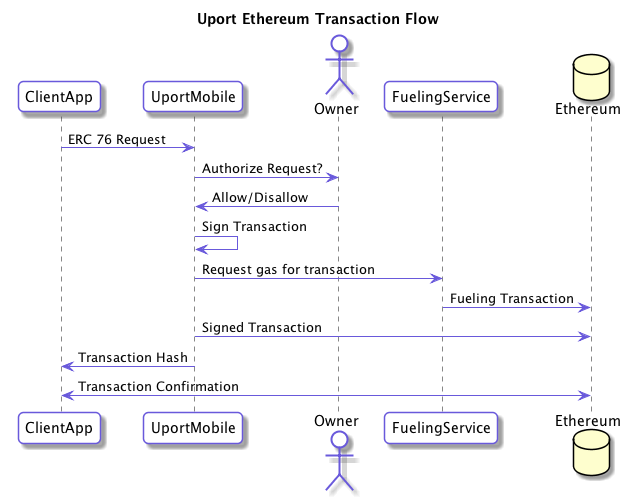
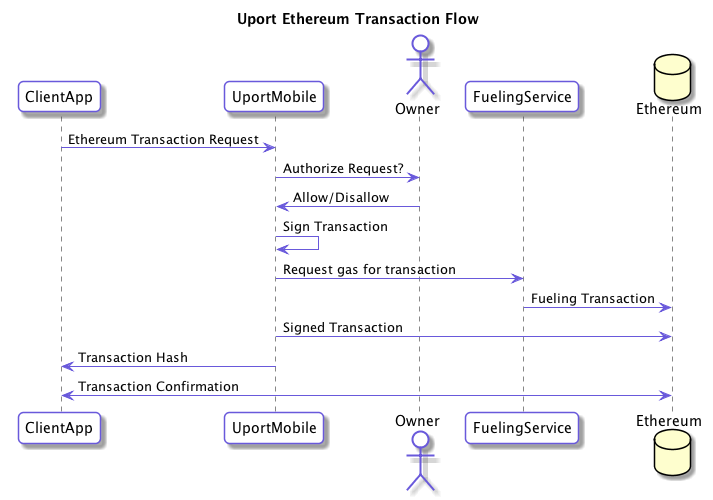
Signed Ethereum Transaction Request

diff --git a/messages/tx.md b/messages/tx.md
@@ -1,0 +1,107 @@
+# Ethereum Transaction Request
+
+This message allows an application to request that a client signs an ethereum transaction.
+
+The Ethereum Transaction Request is created by a client app and sent to a user's mobile app as part of the [Ethereeum Transaction Request Flow](../flows/tx.md).
+
+Requests can be either signed or unsigned.
+
+Unsigned Ethereum Transaction Requests are a superset of [ERC 67](https://github.com/ethereum/EIPs/issues/67) and are deprecated.
+
+## Signed Transaction Request
+
+The Signed Transaction Request is a JWT (JSON Web Token) following the general conventions used throughout this spec for [signed messages](./index.md#json-web-token).
+
+It generally follows the parameters used in the standard [JSON-RPC `eth_sendTransaction()` call](https://github.com/ethereum/wiki/wiki/JSON-RPC#eth_sendtransaction), making it simple for developers to integrate in their apis.
+
+### Attributes
+
+The following attributes of the JWT are supported:
+
+Name | Description | Required
+---- | ----------- | --------
+`type` | MUST have the value `ethtx` | yes
+[`iss`](https://tools.ietf.org/html/rfc7519#section-4.1.1) | The [DID](https://w3c-ccg.github.io/did-spec) or [MNID](https://github.com/uport-project/mnid) of the application identity requesting the signature| yes
+[`iat`](https://tools.ietf.org/html/rfc7519#section-4.1.6) | The time of issuance | yes
+[`exp`](https://tools.ietf.org/html/rfc7519#section-4.1.4) | Expiration time of JWT | no
+`from` | [MNID](https://github.com/uport-project/mnid) or hex encoded address requested to sign the transaction. If not specified the user will select an account. | no
+`to` | [MNID](https://github.com/uport-project/mnid) or hex encoded address of the recipient of the transaction. If not specified the transaction will create a contract and a bytecode field must exist. | no
+`net` | network id of Ethereum chain of identity eg. `0x4` for `rinkeby`. It defaults to the network encoded in the `to` if specified as an [MNID](https://github.com/uport-project/mnid). If not it defaults to `0x1` for `mainnet`. | no
+`value` | [hex encoded value](https://github.com/ethereum/wiki/wiki/JSON-RPC#hex-value-encoding) in wei | no
+`fn` | Solidity function call eg. `transfer(address 0xdeadbeef, uint 5)` | no
+`gasPrice` | [hex encoded value](https://github.com/ethereum/wiki/wiki/JSON-RPC#hex-value-encoding) of integer of the gasPrice used for each paid gas. This is only treated as a recommendation. The client may override this. | no
+`gas` | [hex encoded value](https://github.com/ethereum/wiki/wiki/JSON-RPC#hex-value-encoding) of integer of the gas provided for the transaction execution. It will return unused gas. This is only treated as a recommendation. The client may change this. | no
+`data` | Hex encoded data field of transaction | no
+`callback` | The URL that receives the response | no
+`callback_type` | Valid values `post` or `redirect`. Determines if callback should be sent as a HTTP POST or open the link (`redirect`). If unspecified the mobile app will attempt to pick the correct one| no
+`client_id` | The [DID](https://w3c-ccg.github.io/did-spec) or [MNID](https://github.com/uport-project/mnid) of the requesting identity | no
+`label` | Plain text name of client to be displayed to user | no
+
+The attributes `redirect_url` can also be appended to the signed request as URL encoded query parameters outside of the signed payload. They are used to specify how you want the response and control returned. For more details see [Messages](./index.md#json-web-token).
+
+
+## ERC 67 Unsigned Transaction Request
+
+To perform an unsigned selective disclosure request append the request parameters as URL encoded query parameters to one of the above endpoints and open it. Eg.:
+
+`me.uport:2oDZvNUgn77w2BKTkd9qKpMeUo8EL94QL5V?transfer(address%200xdeadbeef%2C%20uint%205)&callback_url=https://mysite.com/callback&label=My%20Site`
+
+### Attributes
+
+The following
+
+Name | Description | Required
+---- | ----------- | --------
+`from` | [MNID](https://github.com/uport-project/mnid) or hex encoded address requested to sign the transaction. If not specified the user will select an account. | no
+`to` | This is the  [MNID](https://github.com/uport-project/mnid) or hex encoded address of the recipient of the transaction. If not specified the transaction will create a contract and a bytecode field must exist. | yes
+`net` | network id of Ethereum chain of identity eg. `0x4` for `rinkeby`. It defaults to the network encoded in the `to` if specified as an [MNID](https://github.com/uport-project/mnid). If not it defaults to `0x1` for `mainnet`. | no
+`value` | [hex encoded value](https://github.com/ethereum/wiki/wiki/JSON-RPC#hex-value-encoding) in wei | no
+`function` | Solidity function call eg. `transfer(address 0xdeadbeef, uint 5)` | no
+`bytecode` | Hex encoded data field of transaction | no
+`gasPrice` | [hex encoded value](https://github.com/ethereum/wiki/wiki/JSON-RPC#hex-value-encoding) of integer of the gasPrice used for each paid gas. This is only treated as a recommendation. The client may override this. | no
+`gas` | [hex encoded value](https://github.com/ethereum/wiki/wiki/JSON-RPC#hex-value-encoding) of integer of the gas provided for the transaction execution. It will return unused gas. This is only treated as a recommendation. The client may change this. | no
+`callback_url` | The URL that receives the response | no
+`callback_type` | Valid values `post` or `redirect`. Determines if callback should be sent as a HTTP POST or open the link (`redirect`). If unspecified the mobile app will attempt to pick the correct one| no
+`client_id` | The [MNID](https://github.com/uport-project/mnid) of the requesting identity | no
+`label` | Plain text name of client to be displayed to user | no
+
+## Addresses and Network selection
+
+Addresses SHOULD be either [MNID](https://github.com/uport-project/mnid) encoded so they have the correct network specified with them or be a combination of a normal ethereum hex address and a `net` attribute specifying the network.
+
+If there is any kind of mismatch between `to`, `from` or `net` an error will be returned.
+
+## Transaction Request Validity
+
+There are 3 types of transactions supported by Ethereum. The required fields depend on which kind of transaction you are requesting.
+
+### ETH Value Transfer
+
+The following fields are required:
+
+- `to`
+- `value`
+
+### ETH Value Transfer
+
+The following fields are required:
+
+- `to`
+
+Either of these two are required:
+
+- `data` or (`bytecode` for ERC 67)
+- `fn` or (`function` for ERC 67)
+
+### Ethereum Smart Contract creation
+
+The following fields are required:
+
+- `data` or (`bytecode` for ERC 67)
+- `net`
+
+## Client Callback
+
+The client app SHOULD include a URL where the response is returned from the user. This can be a https url or a custom app url which receives the response.
+
+Responses are param appended to a url fragment. If the callback requires the response as a HTTP POST, it is sent as a JSON POST request to the callback url instead.

diff --git a/flows/tx.md b/flows/tx.md
@@ -6,9 +6,13 @@ The following shows the basic flow:
 
 ![Ethereum Transaction Flow](tx.png)
 
-We currently only support unsigned Ethereum Transaction Requests that are a superset of [ERC 67](https://github.com/ethereum/EIPs/issues/67).
-
 ## Endpoint
+
+Signed request should be sent to the following URLs:
+
+- `https://id.uport.me/req/[JWT]`
+
+*The following endpoints are deprecated*
 
 The request should be sent to one of the following URLs:
 
@@ -16,31 +20,19 @@ The request should be sent to one of the following URLs:
 - `ethereum:[ADDRESS]`
 - `https://id.uport.me/[ADDRESS]`
 
-## Addresses
+## Send Request
 
-Addresses SHOULD be [MNID](https://github.com/uport-project/mnid) encoded so they have the correct network specified with them.
+Create a valid signed or unsigned [Ethereum Transaction Request](../messages/tx.md) and send it to the uPort mobile app.
 
-DEPRECATED: For backwards compatibility any hex address passed along will be interpreted as being on the Ropsten (0x3) network. This will be removed soon.
+Signed example:
 
-## ERC 67
+`https://id.uport.me/req/eyJ0eXAiOiJKV1QiLCJhbGciOiJFUzI1NksifQ.eyJp...`
 
-To perform an unsigned selective disclosure request append the request parameters as URL encoded query parameters to one of the above endpoints and open it. Eg.:
+The attributes `redirect_url` and `callback_type` can also be appended to the URL as encoded query parameters to specify how you want the response and control returned. For more details see [Messages](./index.md#json-web-token).
+
+Unsigned example: (Deprecated)
 
 `me.uport:2oDZvNUgn77w2BKTkd9qKpMeUo8EL94QL5V?transfer(address%200xdeadbeef%2C%20uint%205)&callback_url=https://mysite.com/callback&label=My%20Site`
-
-The following
-
-Name | Description | Required
----- | ----------- | --------
-`value` | hex encoded value in wei | yes *
-`function` | Solidity function call eg. `transfer(address 0xdeadbeef, uint 5)` | yes *
-`bytecode` | Hex encoded data field of transaction | yes *
-`callback_url` | The URL that receives the response | no
-`callback_type` | Valid values `post` or `redirect`. Determines if callback should be sent as a HTTP POST or open the link (`redirect`). If unspecified the mobile app will attempt to pick the correct one| no
-`client_id` | The [MNID](https://github.com/uport-project/mnid) of the requesting identity | no
-`label` | Plain text name of client to be displayed to user | no
-
-Either `value`, `function` or `bytecode` is required.
 
 ## Client Callback
 

diff --git a/messages/index.md b/messages/index.md
@@ -73,4 +73,5 @@ There are several standard message types that the uPort mobile app knows how to 
 - **[Selective Disclosure Response](shareresp.md)** signed by the app as a response to a Selective Disclosure Request
 - **[Verified Claim](verification.md)** - signed claim by one party about another party
 - **[Verified Claim Request](verificationreq.md)** - Request a signed claim by one party about another party
+- **[Ethereum Transaction Request](tx.md)** for requesting a user to sign a transaction
 - **[Private Chain Provisioning Message](privatechain.md)** for provisioning an identity on a private Ethereum chain
